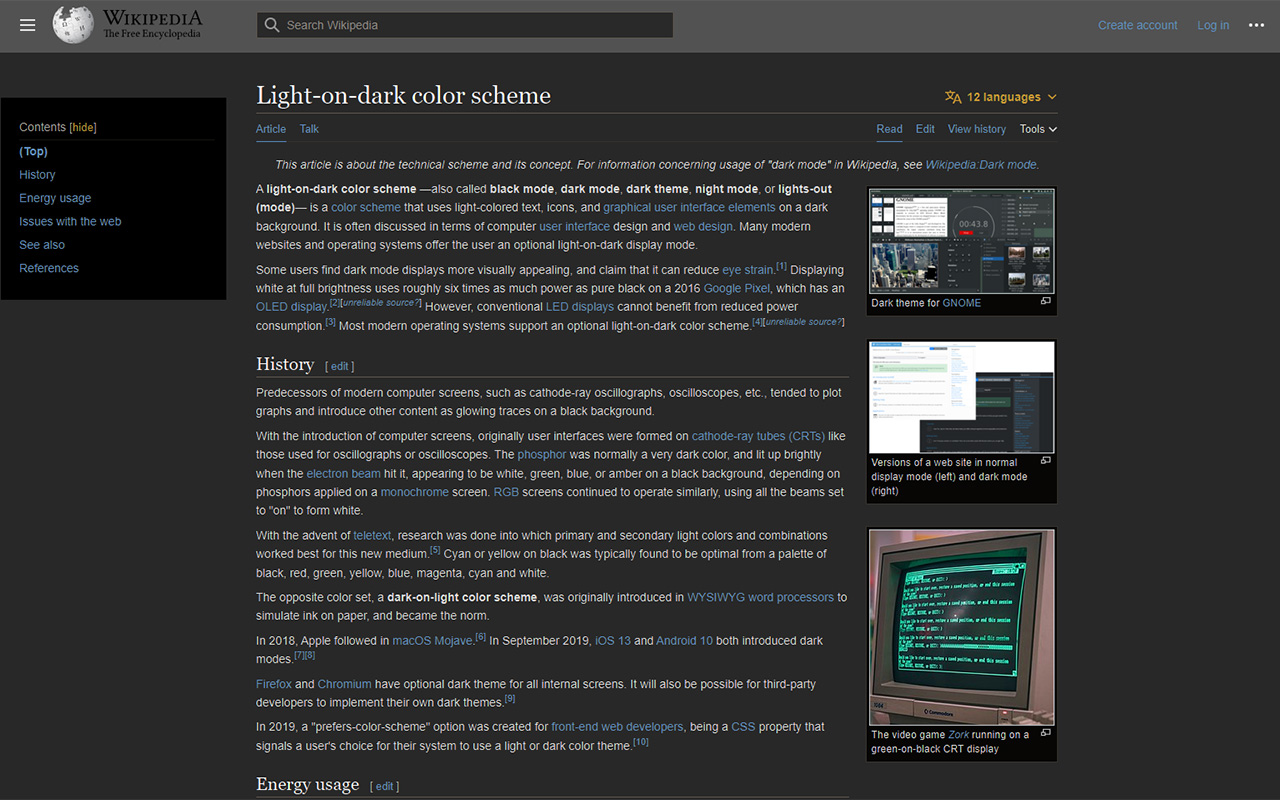
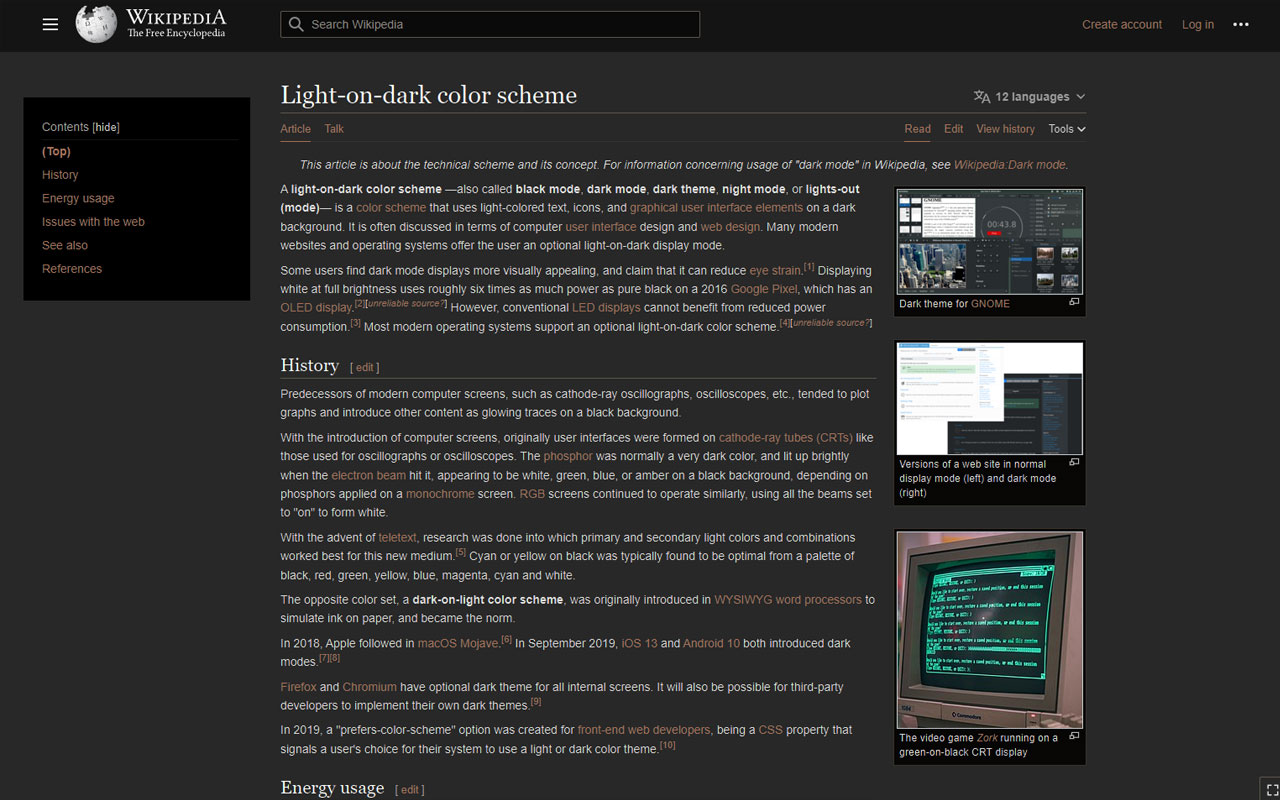
v0.2

Changed region(s): [[0.0, 0.0, 1.0, 1.0], [0.0, 0.125, 0.125, 0.375], [0.9688, 0.9688, 1.0, 1.0]]

diff --git a/inject.css b/inject.css
@@ -1,0 +1,27 @@
+html {
+  background: black !important;
+}
+.vector-header-container, .vector-feature-zebra-design-disabled, body {
+  background-color: #ebebeb !important;
+}
+.mw-page-container, .bandeau-niveau-modere, .cdx-menu-item--highlighted {
+  background-color: #d7d7d7 !important;
+}
+html {
+  mix-blend-mode: difference !important;
+}
+img, .mw-logo-container { 
+  filter: invert(1); 
+}
+a {
+  color: #548ea7 !important;
+}
+a.external {
+  filter: hue-rotate(160deg);
+}
+.vector-menu-heading {
+  filter: grayscale(1);
+}
+button {
+  color: inherit !important;
+}

diff --git a/README.md b/README.md
@@ -1,1 +1,18 @@
 # wikipedia-darkmode
+
+This chrome extension is a simple dark mode for Wikipedia
+
+![feature](images/screenshot.jpg)
+
+## Changelog
+
+### [0.2]
+
+- Use CSS injection
+- Customize css
+- Remove script injection
+- Remove all access permissions (useless for css injection)
+
+### [0.1]
+
+- Release
